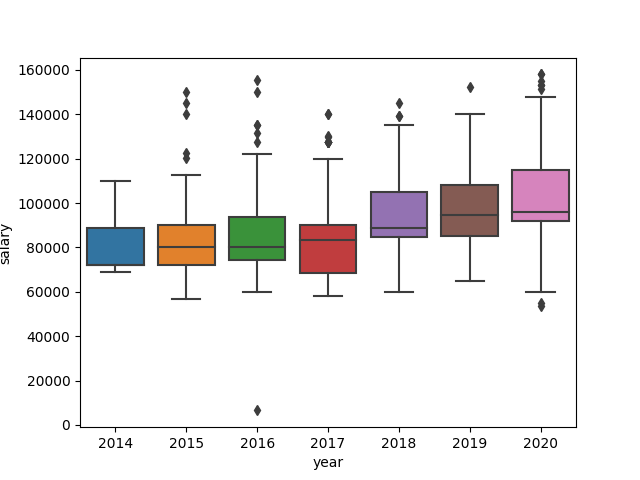
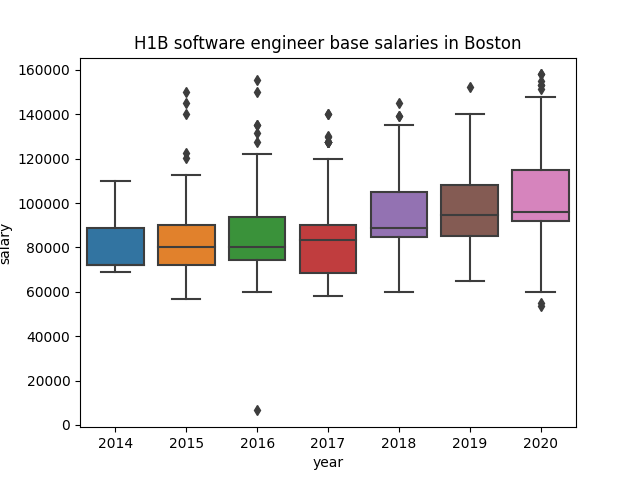
added title

Changed region(s): [[0.1875, 0.0625, 0.8125, 0.125]]

diff --git a/scrape_and_plot.py b/scrape_and_plot.py
@@ -25,7 +25,7 @@ def get_data(city: str = "BOSTON") -> pd.DataFrame:
 
 
 def plot(salaries: pd.DataFrame) -> None:
-    boxplot = seaborn.boxplot(x="year", y="salary", data=salaries)
+    boxplot = seaborn.boxplot(x="year", y="salary", data=salaries).set_title("H1B software engineer base salaries in Boston")
     boxplot.get_figure().savefig("boxplot.png")
     last_year = salaries[salaries["year"] == 2020]
     displot = seaborn.displot(last_year, x="salary", kind="kde")
